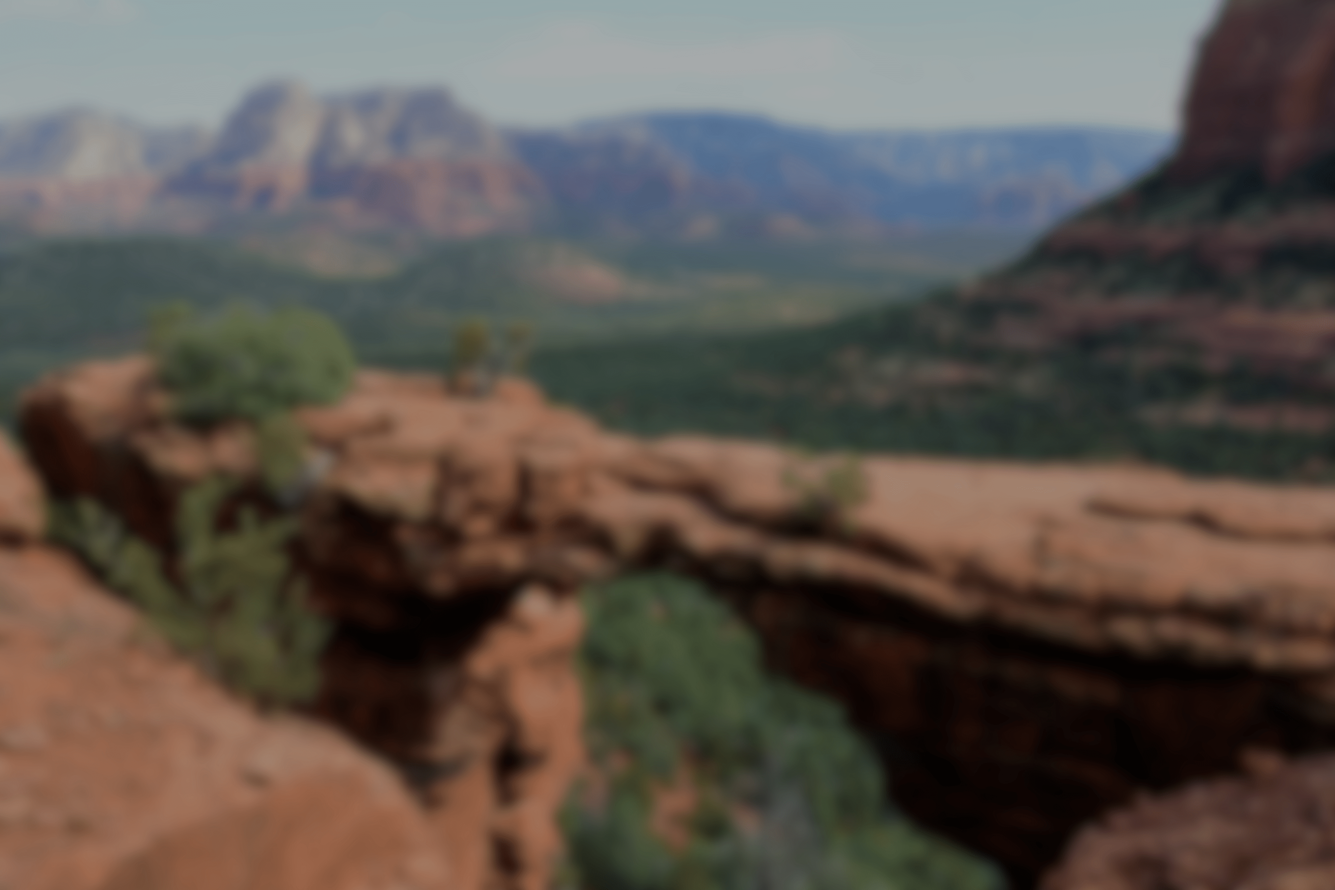
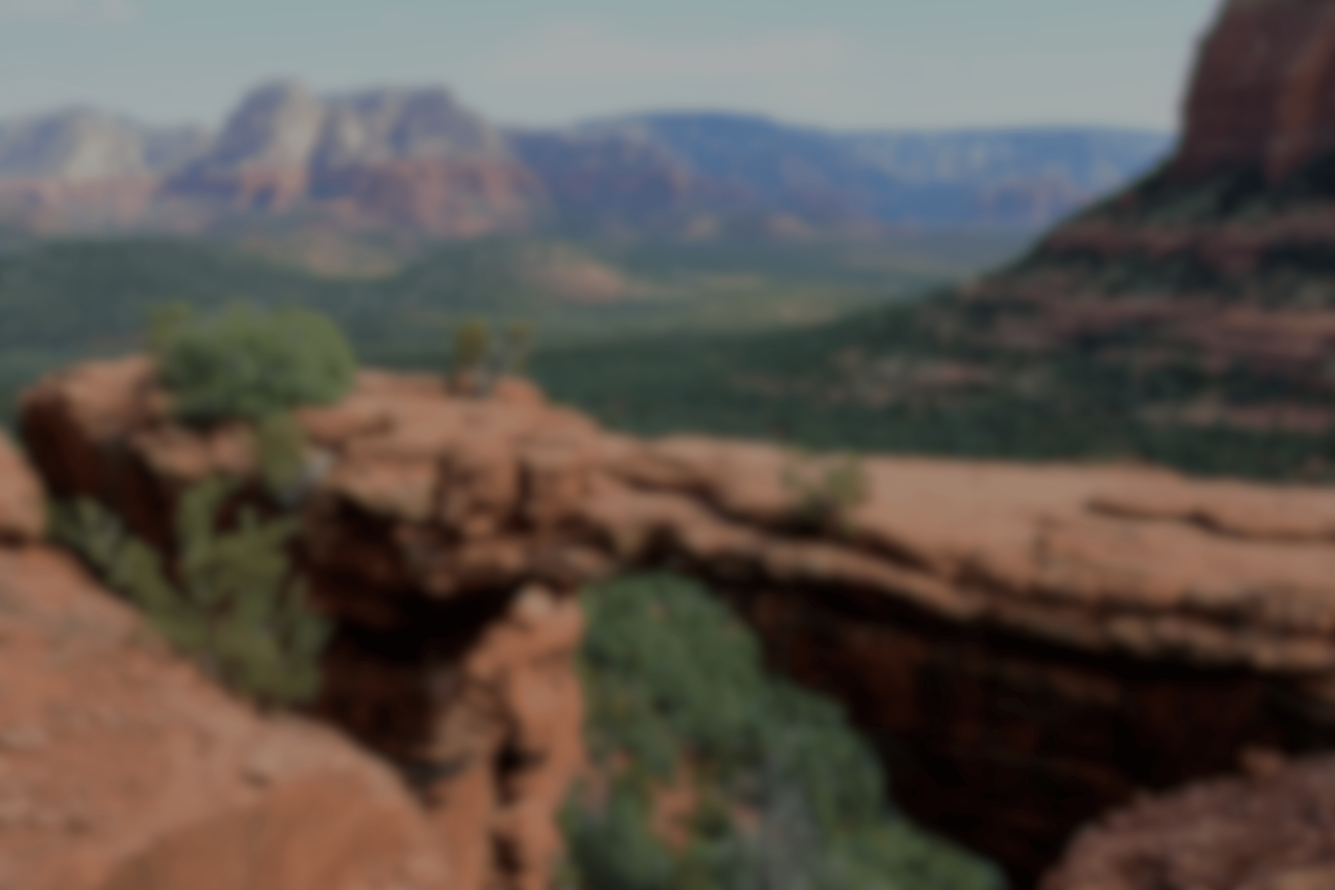
Случайно удалил картинки, добавил обратно

Changed region(s): [[0.6875, 0.249, 0.7812, 0.2801], [0.4062, 0.3112, 0.4688, 0.3424], [0.2812, 0.1867, 0.3125, 0.2179]]

diff --git a/catalog.html b/catalog.html
@@ -44,7 +44,7 @@
      <main class="main-inner">
        <div class="header-inner">
          <h1 class="header-inner-title">Гостиницы Седоны</h1>
-         <img class="picture-header-catalog" src="images/catalog-background.png" width="1200" height="412" alt="размытый фон гор">
+         <img class="picture-header-catalog" src="images/catalog-background.jpg" width="1200" height="412" alt="размытый фон гор">
          <ul class="breadcrumbs">
            <li class="breadcrubms-item">
              <a class="breadcrumbs-link href=index.html">Домик</a>
